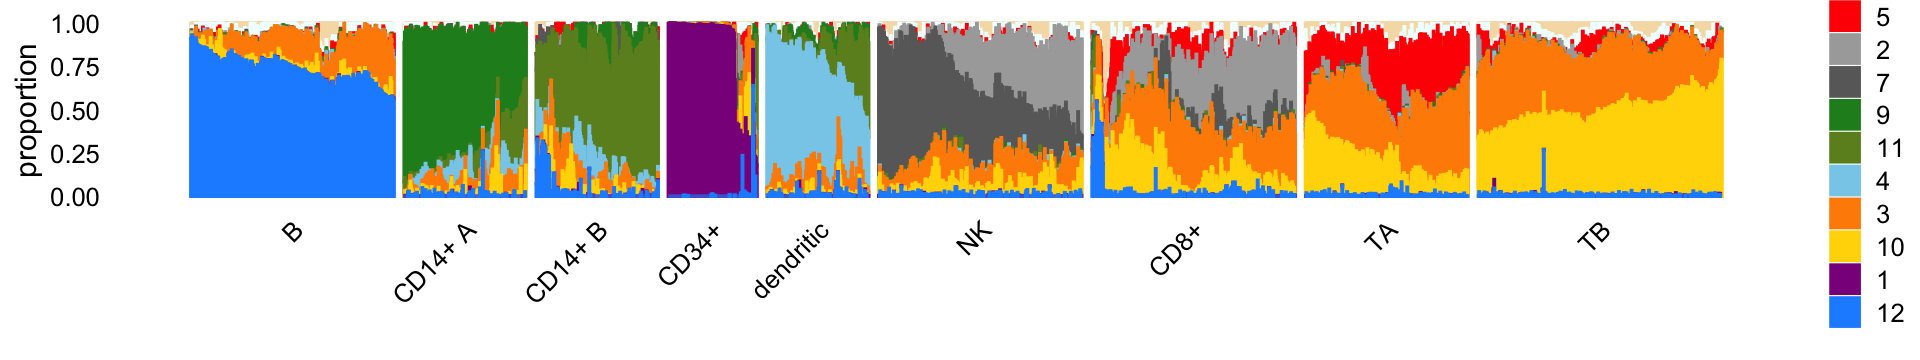
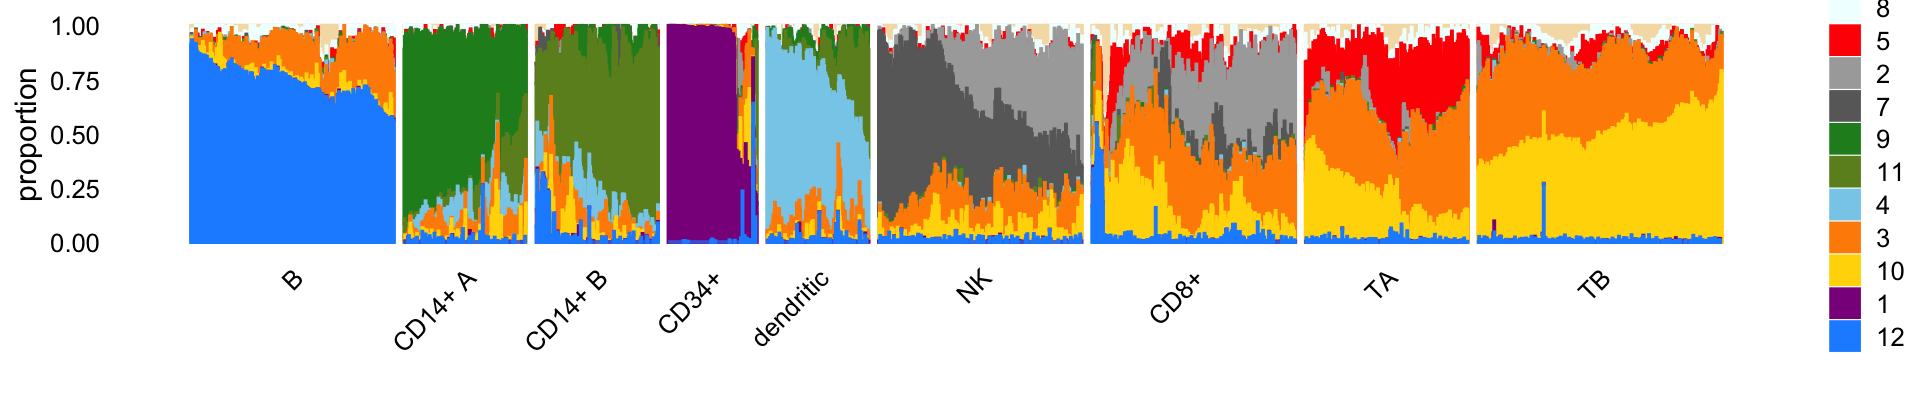
Adjusted dimensions of Structure plot; cleaned up files in analysis directory.

diff --git a/docs/clusters_68k_pbmc.html b/docs/clusters_68k_pbmc.html
@@ -414,16 +414,16 @@ This reproducible <a href="http://rmarkdown.rstudio.com">R Markdown</a> analysis
 <div class="panel panel-default">
 <div class="panel-heading">
 <p class="panel-title">
-<a data-toggle="collapse" data-parent="#workflowr-checks" href="#strongRepositoryversionstrongahrefhttpsgithubcomstephenslabsinglecelltopicstreef6ee94f83d3b70d65fcb9a04f2158b0440d2aba9targetblankf6ee94fa"> <span class="glyphicon glyphicon-ok text-success" aria-hidden="true"></span> <strong>Repository version:</strong> <a href="https://github.com/stephenslab/single-cell-topics/tree/f6ee94f83d3b70d65fcb9a04f2158b0440d2aba9" target="_blank">f6ee94f</a> </a>
+<a data-toggle="collapse" data-parent="#workflowr-checks" href="#strongRepositoryversionstrongahrefhttpsgithubcomstephenslabsinglecelltopicstree116cbc83fd1f2bd580360de5822d3f4605225358targetblank116cbc8a"> <span class="glyphicon glyphicon-ok text-success" aria-hidden="true"></span> <strong>Repository version:</strong> <a href="https://github.com/stephenslab/single-cell-topics/tree/116cbc83fd1f2bd580360de5822d3f4605225358" target="_blank">116cbc8</a> </a>
 </p>
 </div>
[2 lines of base64/hex data omitted]
 <div class="panel-body">
 <p>
 Great! You are using Git for version control. Tracking code development and connecting the code version to the results is critical for reproducibility.
 </p>
 <p>
-The results in this page were generated with repository version <a href="https://github.com/stephenslab/single-cell-topics/tree/f6ee94f83d3b70d65fcb9a04f2158b0440d2aba9" target="_blank">f6ee94f</a>. See the <em>Past versions</em> tab to see a history of the changes made to the R Markdown and HTML files.
+The results in this page were generated with repository version <a href="https://github.com/stephenslab/single-cell-topics/tree/116cbc83fd1f2bd580360de5822d3f4605225358" target="_blank">116cbc8</a>. See the <em>Past versions</em> tab to see a history of the changes made to the R Markdown and HTML files.
 </p>
 <p>
 Note that you need to be careful to ensure that all relevant files for the analysis have been committed to Git prior to generating the results (you can use <code>wflow_publish</code> or <code>wflow_git_commit</code>). workflowr only checks the R Markdown file, but you know if there are other scripts or data files that it depends on. Below is the status of the Git repository when the results were generated:
@@ -447,6 +447,7 @@ Ignored files:
     Ignored:    output/pulseseq/rds/
 
 Untracked files:
+    Untracked:  .DS_Store
     Untracked:  analysis/plots_purified_pbmc_cache/
     Untracked:  plots/
 
@@ -487,6 +488,57 @@ Message
 </tr>
 </thead>
 <tbody>
+<tr>
+<td>
+Rmd
+</td>
+<td>
+<a href="https://github.com/stephenslab/single-cell-topics/blob/116cbc83fd1f2bd580360de5822d3f4605225358/analysis/clusters_68k_pbmc.Rmd" target="_blank">116cbc8</a>
+</td>
+<td>
+Peter Carbonetto
+</td>
+<td>
+2021-01-09
+</td>
+<td>
+workflowr::wflow_publish(“clusters_68k_pbmc.Rmd”, verbose = TRUE)
+</td>
+</tr>
+<tr>
+<td>
+html
+</td>
+<td>
+<a href="https://rawcdn.githack.com/stephenslab/single-cell-topics/7edfc1565b56617b4695d4c5132c0d198cc3b696/docs/clusters_68k_pbmc.html" target="_blank">7edfc15</a>
+</td>
+<td>
+Peter Carbonetto
+</td>
+<td>
+2021-01-09
+</td>
+<td>
+Improved Structure plot in clusters_68k_pbmc analysis; added
+</td>
+</tr>
+<tr>
+<td>
+html
+</td>
+<td>
+<a href="https://rawcdn.githack.com/stephenslab/single-cell-topics/92ebf75d2d52c1426a72f255c247984b1c93fab0/docs/clusters_68k_pbmc.html" target="_blank">92ebf75</a>
+</td>
+<td>
+Peter Carbonetto
+</td>
+<td>
+2021-01-09
+</td>
+<td>
+Improved Structure plot in clusters_68k_pbmc analysis.
+</td>
+</tr>
 <tr>
 <td>
 Rmd
@@ -747,6 +799,28 @@ Date
 </tr>
 </thead>
 <tbody>
+<tr>
+<td>
+<a href="https://github.com/stephenslab/single-cell-topics/blob/7edfc1565b56617b4695d4c5132c0d198cc3b696/docs/figure/clusters_68k_pbmc.Rmd/structure-plot-1.png" target="_blank">7edfc15</a>
+</td>
+<td>
+Peter Carbonetto
+</td>
+<td>
+2021-01-09
+</td>
+</tr>
+<tr>
+<td>
+<a href="https://github.com/stephenslab/single-cell-topics/blob/92ebf75d2d52c1426a72f255c247984b1c93fab0/docs/figure/clusters_68k_pbmc.Rmd/structure-plot-1.png" target="_blank">92ebf75</a>
+</td>
+<td>
+Peter Carbonetto
+</td>
+<td>
+2021-01-09
+</td>
+</tr>
 <tr>
 <td>
 <a href="https://github.com/stephenslab/single-cell-topics/blob/1fd699d82f9a413c2bb0ffbe888ef6e438cf07c1/docs/figure/clusters_68k_pbmc.Rmd/structure-plot-1.png" target="_blank">1fd699d</a>
